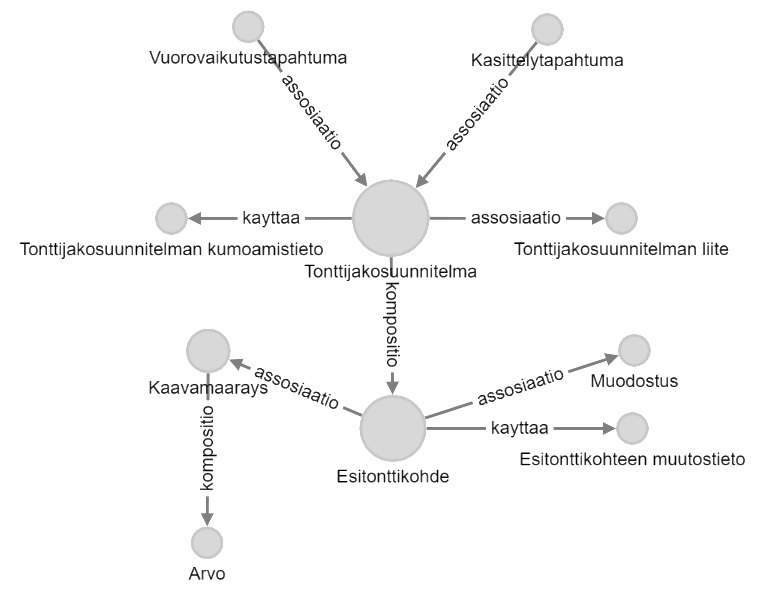
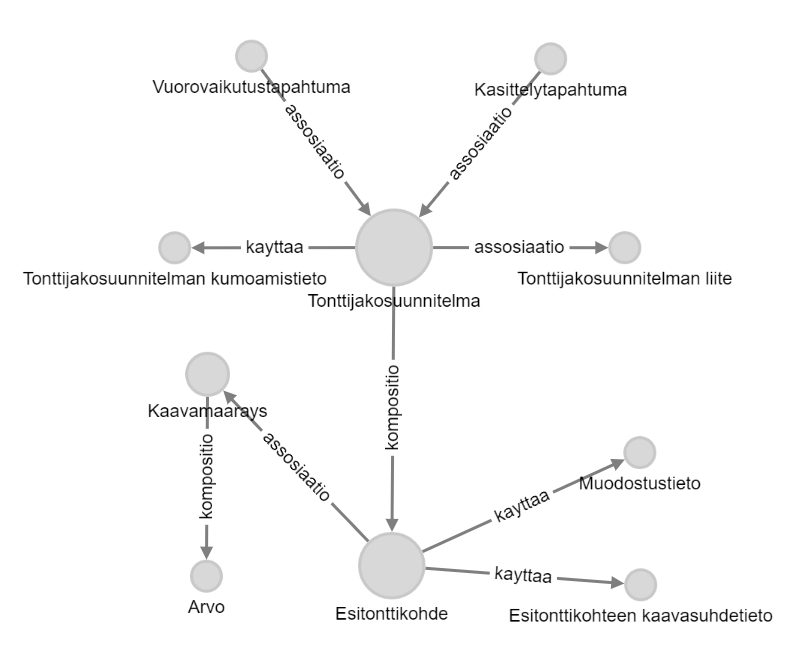
Markon muutokset käsitemalliin

Changed region(s): [[0.0303, 0.0, 1.0, 0.9632]]

diff --git a/docs/1.0-dev/kasitemalli/index.md b/docs/1.0-dev/kasitemalli/index.md
@@ -24,8 +24,14 @@ Tällä sivulla esitellyt käsitteet ovat luettavissa yhteentoimivuusalustan san
 ### Tonttijakosuunnitelma
 {% include defintionref_tjs.html id="concept-0" name="tonttijakosuunnitelma" def="maankäyttö- ja rakennuslain mukainen kunnan laatima suunnitelma asemakaavassa rakentamiselle varatun yhtenäisen alueen (rakennuskortteli) kiinteistöjaotuksen uudistamisen yksityiskohtaiseksi ohjaamiseksi." %}
 
+### Esitonttikohde
+{% include defintionref_tjs.html id="concept-6" name="esitonttikohde" def="Tonttijakosuunnitelmassa osoitettu aluemainen tai pistemäinen kohde kiinteistöjaotuksen uudistamiseksi, jonka alueella maankäyttöä tai rakentamista halutaan ohjata." %}
+
 ### Esitontti
 {% include defintionref_tjs.html id="concept-1" name="esitontti" def="Tonttijakosuunnitelmassa osoitettu tontti (esitontti) kiinteistöjaotuksen uudistamiseksi, jonka alueella maankäyttöä tai rakentamista halutaan ohjata." %}
+
+### Esitonttirajapiste
+{% include defintionref_tjs.html id="concept-12" name="esitonttirajapiste" def="tonttijakosuunnitelmassa osoitettu pistemäinen paikkatietokohde, joka kuvaa kiinteistönmuodostustoimituksessa osoitettavaa rajapistettä tai rajamerkkiä." %}    
 
 ### Tonttijakosuunnitelman liite
 {% include defintionref_tjs.html id="concept-2" name="tonttijakosuunnitelman liite" def="Tonttijakosuunnitelmaan liittyvä asiakirja, joka ei sisällä tonttijakosuunnitelman oikeusvaikutuksellista suunnitelma- tai säännöstietoa." %}
@@ -39,17 +45,17 @@ Tällä sivulla esitellyt käsitteet ovat luettavissa yhteentoimivuusalustan san
 ### Tonttijakosuunnitelman kumoamistieto
 {% include defintionref_tjs.html id="concept-5" name="tonttijakosuunnitelman kumoamistieto" def="Tieto tonttijakosuunnitelman hyväksymisen johdosta kokonaisuudessaan kumoutuvasta tonttijakosuunnitelmasta tai tonttijakosuunnitelman kumottavasta esitontista." %}
 
-### Esitonttikohteen muutostieto
-{% include defintionref_tjs.html id="concept-9" name="esitonttikohteen muutostieto" def="Tieto kaavan hyväksymisen johdosta muuttuvista, kumoutuvista tai muun muutoksen aiheuttamista esitonttikohteista." %}
+### Esitonttikohteen kaavasuhdetieto
+{% include defintionref_tjs.html id="concept-10" name="esitonttikohteen kaavasuhdetieto" def="Tieto esitonttikohteeseen liittyvistä asemakaavoista ja niiden vaikutuksista." %}
 
-### Esitonttikohde
-{% include defintionref_tjs.html id="concept-6" name="esitonttikohde" def="Tonttijakosuunnitelmassa osoitettu aluemainen tai pistemäinen kohde kiinteistöjaotuksen uudistamiseksi, jonka alueella maankäyttöä tai rakentamista halutaan ohjata." %}
-
-### rytj-kaava: Kaavamääräys
-{% include defintionref.html id="concept-1010" name="kaavamääräys" def="Kaavaan sisältyvä velvoittava määräys, jolla ohjataan alueiden suunnittelua ja rakentamista." %}
-
-### rytj-kaava: Arvo
-{% include defintionref.html id="concept-1011" name="ominaisuuden arvo" def="Kaavaan sisältyvä velvoittava määräys, jolla ohjataan alueiden suunnittelua ja rakentamista." %}
+### Esitonttikohteen muodostustieto
+{% include defintionref_tjs.html id="concept-11" name="esitonttikohteen muodostustieto" def="Tieto muodostajakiinteistöistä, josta esitontti muodostetaan." %}
 
 ### Esitonttitietovarasto
 {% include defintionref_tjs.html id="concept-7" name="esitonttitietovarasto" def="Tietojärjestelmä, jonka tehtävänä on vastaanottaa, säilyttää ja jaella tietomallimuotoista tonttjakosuunnitelmatietoa laatu- ja elinkaarisääntöjen mukaisesti." %}
+
+### rak: Kaavamääräys
+{% include defintionref.html id="concept-1010" name="kaavamääräys" def="Kaavaan sisältyvä velvoittava määräys, jolla ohjataan alueiden suunnittelua ja rakentamista." %}
+
+### rak: Arvo
+{% include defintionref.html id="concept-1011" name="ominaisuuden arvo" def="Kaavamääräystä tarkentava arvo." %}
